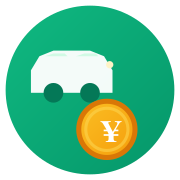
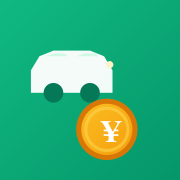
apple-touch-iconを修正

diff --git a/generate-icons.js b/generate-icons.js
@@ -27,14 +27,14 @@ async function generateIcons() {
     console.log(`Generated ${name} (square background)`);
   }
 
-  // Apple用アイコンを生成（丸い背景）
+  // Apple用アイコンを生成（四角い背景）
   for (const { size, name, svg } of appleIcon) {
     const svgBuffer = fs.readFileSync(svg);
     await sharp(svgBuffer)
       .resize(size, size)
       .png()
       .toFile(path.join(publicDir, name));
-    console.log(`Generated ${name} (circular background)`);
+    console.log(`Generated ${name} (square background)`);
   }
 
   console.log('All icons generated successfully!');

diff --git a/index.html b/index.html
@@ -10,7 +10,7 @@
     <link rel="manifest" href="/manifest.webmanifest" />
 
     <!-- Apple Touch Icon -->
-    <link rel="apple-touch-icon" href="carpool-pwa-icon.svg" />
+    <link rel="apple-touch-icon" href="/apple-touch-icon.png" />
 
     <!-- Apple Mobile Web App -->
     <meta name="apple-mobile-web-app-capable" content="yes" />
